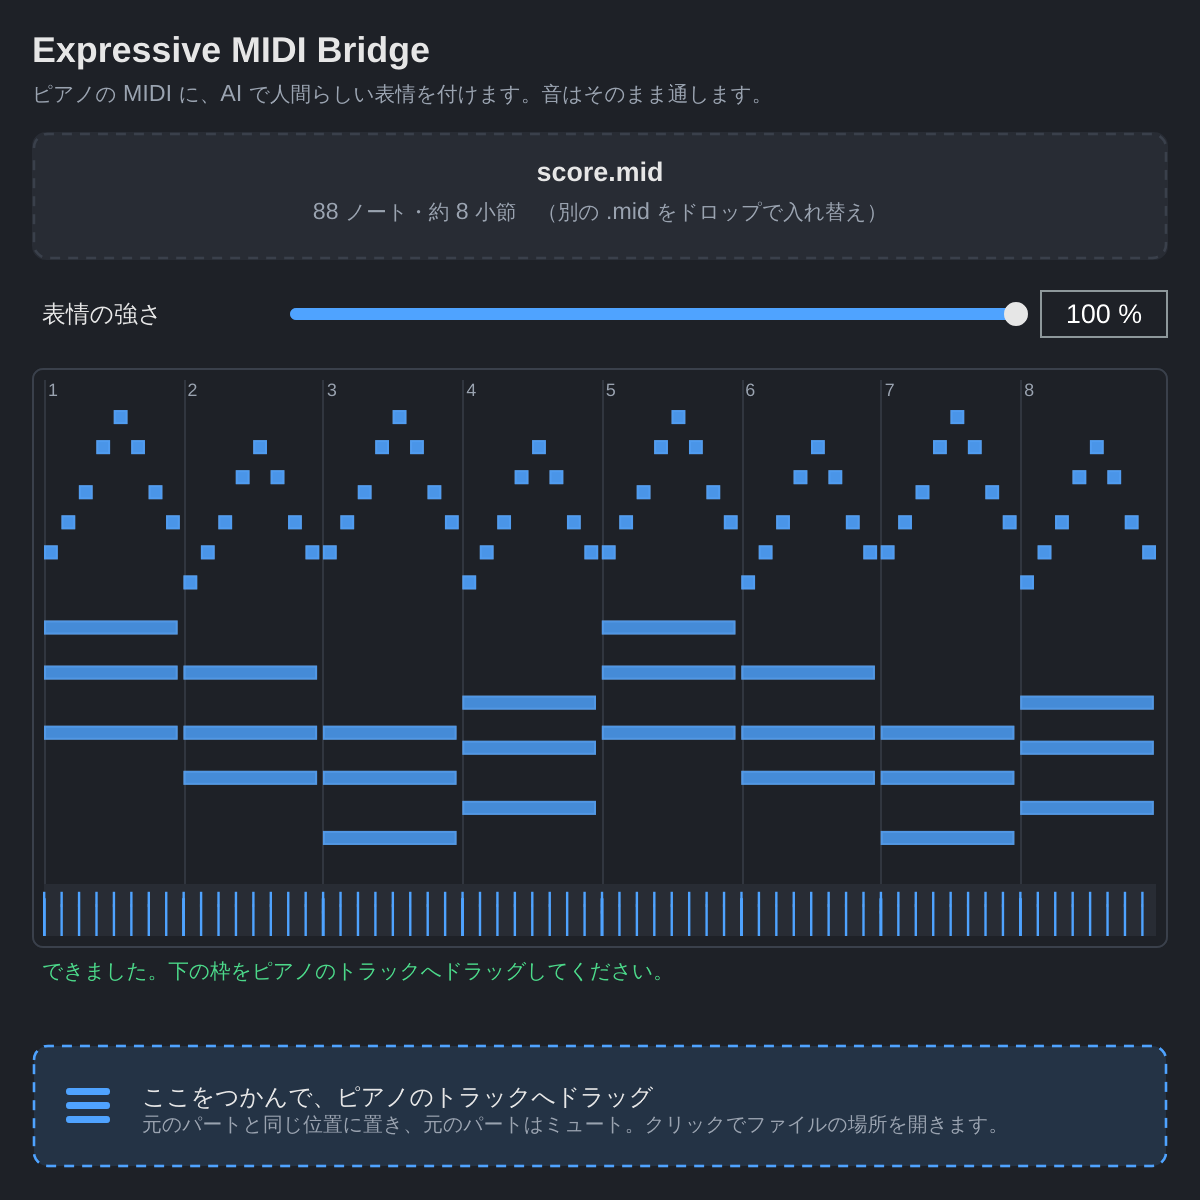
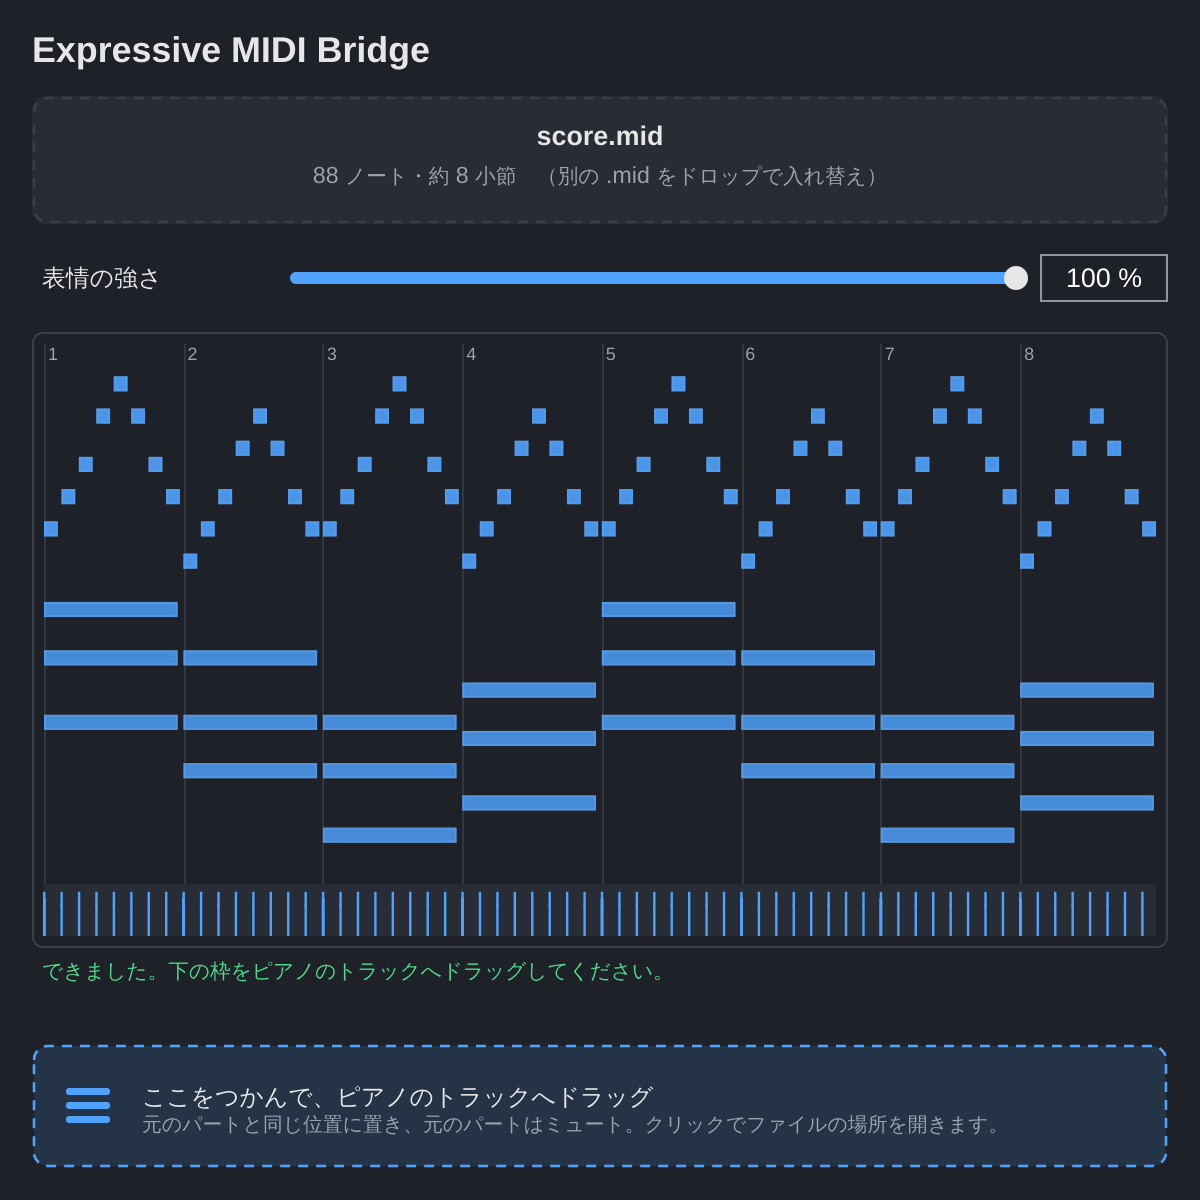
Remove the tagline under the plugin title and in the READMEs
Claude-Session: https://claude.ai/code/session_01PXeE9NQSLz1Q7Lonj7yRQ7

diff --git a/vst3/JuceMidiPlayer/Source/PluginEditor.cpp b/vst3/JuceMidiPlayer/Source/PluginEditor.cpp
@@ -270,11 +270,6 @@ void ExpressiveMidiPlayerEditor::paint(juce::Graphics& g)
     g.setColour(colours::text);
     g.setFont(juce::FontOptions(20.0f, juce::Font::bold));
     g.drawText("Expressive MIDI Bridge", margin, 12, getWidth() - 2 * margin, 26, juce::Justification::centredLeft);
-    g.setColour(colours::dim);
-    g.setFont(juce::FontOptions(13.0f));
-    g.drawText(tr("Gives piano MIDI a human performance with AI. Audio passes through unchanged.",
-                  "ピアノの MIDI に、AI で人間らしい表情を付けます。音はそのまま通します。"),
-               margin, 38, getWidth() - 2 * margin, 18, juce::Justification::centredLeft);
 
     if (!aiReady)
     {
@@ -293,7 +288,7 @@ void ExpressiveMidiPlayerEditor::paint(juce::Graphics& g)
 void ExpressiveMidiPlayerEditor::resized()
 {
     auto area = getLocalBounds().reduced(margin, 0);
-    area.removeFromTop(66);
+    area.removeFromTop(48);
 
     if (!aiReady)
     {
